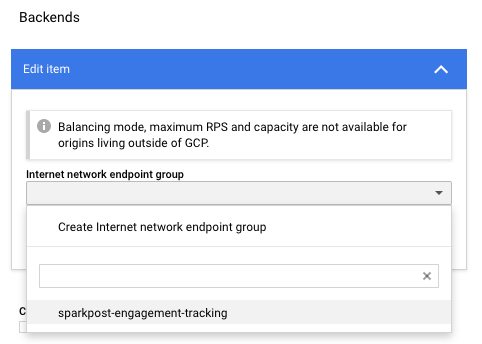
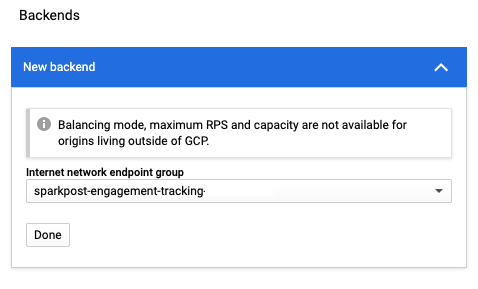
HTTPS: add section on tracking domain migration planning. Minor Google Cloud improvements based on customer feedback (#497)
* Migration planning

* Improve GCP steps 2 and 8 based on cust feedback

Changed region(s): [[0.0, 0.1246, 0.9958, 0.9654], [0.0586, 0.9654, 0.9372, 0.9965], [0.0293, 0.0311, 0.1757, 0.0934]]

diff --git a/support/tech-resources/enabling-https-engagement-tracking-on-sparkpost.md b/support/tech-resources/enabling-https-engagement-tracking-on-sparkpost.md
@@ -9,6 +9,18 @@ SparkPost supports HTTPS engagement tracking for all self-service customers. Thi
 
 > Alternative: to configure HTTPS engagement tracking using your own proxy, see [this article](https://www.sparkpost.com/docs/tech-resources/using-proxy-https-tracking-domain/).
 
+## Migration planning
+
+If you already have non-secure tracking domains in live service, with a `CNAME` direct to SparkPost's tracking endpoints, you need to plan for what happens when users click on links in previously-delivered emails.
+
+The simplest approach is to leave the current tracking-domain in place, and set up a new, sibling tracking-domain pointing to your CDN. For example, if you are using `click.mycompany.com` with a direct CNAME, set up the proxy with `click2.mycompany.com`. This enables you to test your setup is working before switching over to use it for Production traffic in SparkPost.
+
+If you want to end up with your CDN serving the original domain:
+* You'll need your CDN to handle both port 80 (HTTP) and port 443 (HTTPS) requests, so that links in previously delivered mails continue to work
+* To mimimize disruption, we recommend you test your setup on a sibling domain before switching
+* You need to consider your certificates (which may be specific to your subdomain, or may use subdomain wild-card)
+* You need to change your DNS setting on the original tracking domain(s) to point to the CDN, only when your setup is tested and working.
+
 ## Configuring SSL Certificates
 
 In order for HTTPS engagement tracking to be enabled on SparkPost, our service needs to present a valid certificate that will be trusted by the email recipient’s browser. SparkPost does not manage certificates for customer engagement tracking domains, as we are not the record owner for our customers’ domains.
@@ -375,6 +387,8 @@ GCP organizes resources under named projects.
 
     It will take a few minutes for a new project to become ready for adding services.
 
+    >You may see a message such as "_Compute Engine is getting ready_". Refresh your browser to continue.
+
     ![](media/enabling-https-engagement-tracking-on-sparkpost/gcp-network-services.png)
 
  1. Choose "Create load balancer".
@@ -430,14 +444,12 @@ GCP organizes resources under named projects.
 
      ![](media/enabling-https-engagement-tracking-on-sparkpost/gcp-network-endpoint-group-exists.png)
 
-    Close this tab, and **return to your previous tab**. Unfortunately this does not auto-refresh with your newly created Network Endpoint Group, so you'll need to refresh your browser to make it visible, then repeat some steps.
+    Close this tab, and **return to your previous tab**. Unfortunately this does not auto-refresh; however, start typing the name of the Network Endpoint Group you just created, and it will appear.
 
-    * Give the backend service a name, e.g. "sparkpost-engagement-tracking".
-    * For "Backend type", choose "Internet network endpoint group".
-    * For Protocol, choose "HTTPS". Leave "Named port" and "Timeout" at defaults.
-    * For Backends, under "Edit item", choose your newly created "Network Endpoint group" from the drop-down list, then choose "Done".
 
       ![](media/enabling-https-engagement-tracking-on-sparkpost/gcp-choose-backend-group.png)
+
+    Choose "Done".
 
     * Leave "Enable Cloud CDN" unchecked and the other settings at defaults.
 

diff --git a/support/tech-resources/using-proxy-https-tracking-domain.md b/support/tech-resources/using-proxy-https-tracking-domain.md
@@ -27,6 +27,18 @@ Step-by-step instructions follow, for:
 * [nginx](#nginx)
 * [Apache](#apache)
 
+## Migration planning
+
+If you already have non-secure tracking domains in live service, with a `CNAME` direct to SparkPost's tracking endpoints, you need to plan for what happens when users click on links in previously-delivered emails.
+
+The simplest approach is to leave the current tracking-domain in place, and set up a new, sibling tracking-domain pointing to your proxy. For example, if you are using `click.mycompany.com` with a direct CNAME, set up the proxy with `click2.mycompany.com`. This enables you to test your proxy is working before switching over to use it for Production traffic in SparkPost.
+
+If you want to end up with your proxy serving the original domain:
+* You'll need your proxy to handle both port 80 (HTTP) and port 443 (HTTPS) requests, so that links in previously delivered mails continue to work
+* To mimimize disruption, we recommend you test your setup on a sibling domain before switching
+* You need to consider your certificates (which may be specific to your subdomain, or may use subdomain wild-card)
+* You need to change your DNS setting on the original tracking domain(s) to point to the proxy, only when your proxy is tested and working.
+
 ## <a name="nginx"></a> Configuring nginx
 
 This section uses [nginx](https://www.nginx.com/).  It is easy to get installed and configured as a reverse proxy and Let’s Encrypt for SSL certificates has support for it.  To install nginx, follow the guidelines for your Linux distribution.
